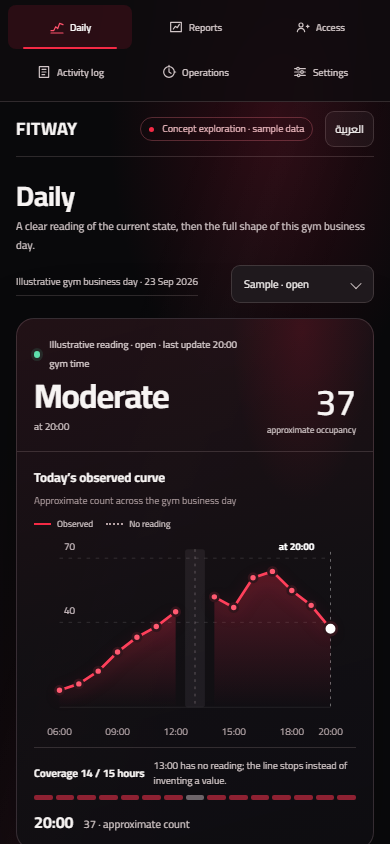
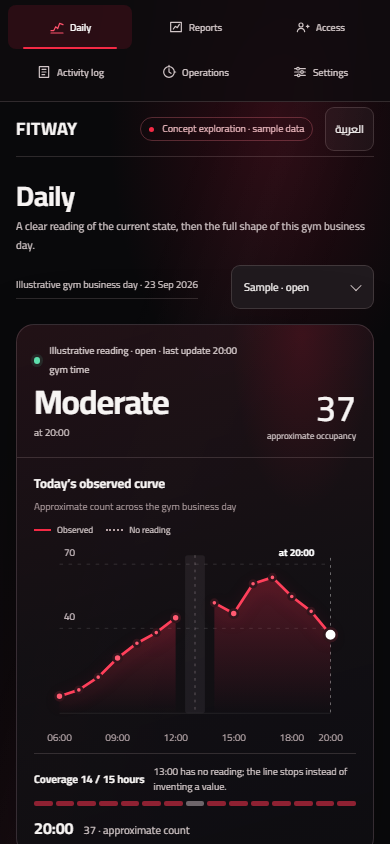
Repair Owner Observatory mobile touch targets

diff --git a/design-research/owner-composition-exploration-r03/concepts/direction-01/app.js b/design-research/owner-composition-exploration-r03/concepts/direction-01/app.js
@@ -423,12 +423,17 @@ function chart() {
 		.join("");
 	const gapX = x(7);
 	const nowX = x(14);
+	// On phones, five spaced anchor readings keep every SVG hit area at least
+	// 44px wide without overlapping adjacent targets. The table retains all hours.
+	const mobileAnchors = new Set([0, 3, 6, 9, 14]);
 	const points = sample
-		.map((v, i) =>
-			v === null
-				? ""
-				: `<circle class="chart-point ${state.selected === i ? "selected" : ""}" data-point="${i}" role="button" tabindex="0" aria-label="${times[i]}: ${v} ${t.approxCount}" aria-pressed="${state.selected === i}" cx="${x(i)}" cy="${y(v)}" r="4.5"><title>${times[i]} · ${v}</title></circle>`,
-		)
+		.map((v, i) => {
+			if (v === null) return "";
+			const active = !mobile || mobileAnchors.has(i);
+			const visual = `<circle class="chart-point-visual ${active ? "selectable" : ""} ${state.selected === i ? "selected" : ""}" data-visual="${i}" cx="${x(i)}" cy="${y(v)}" r="${active ? 4.5 : 3.5}"/>`;
+			if (!active) return `<g aria-hidden="true">${visual}</g>`;
+			return `<g class="chart-point-unit"><circle class="chart-hit" data-point="${i}" role="button" tabindex="0" aria-label="${times[i]}: ${v} ${t.approxCount}" aria-pressed="${state.selected === i}" cx="${x(i)}" cy="${y(v)}" r="${mobile ? 31 : 22}"><title>${times[i]} · ${v}</title></circle>${visual}</g>`;
+		})
 		.join("");
 	const labels = [0, 3, 6, 9, 12, 14]
 		.map(
@@ -534,8 +539,13 @@ function bind() {
 		const select = () => {
 			state.selected = Number(point.dataset.point);
 			document.querySelectorAll("[data-point]").forEach((p) => {
-				p.classList.toggle("selected", p === point);
 				p.setAttribute("aria-pressed", String(p === point));
+			});
+			document.querySelectorAll("[data-visual]").forEach((p) => {
+				p.classList.toggle(
+					"selected",
+					p.dataset.visual === point.dataset.point,
+				);
 			});
 			const selected = document.querySelector(".selected-reading");
 			const t = c();

diff --git a/design-research/owner-composition-exploration-r03/concepts/direction-01/style.css b/design-research/owner-composition-exploration-r03/concepts/direction-01/style.css
@@ -14,3 +14,6 @@
 @media(max-width:600px){.filters{grid-template-columns:repeat(5,minmax(0,1fr))}.filter{font-size:8px}.record{grid-template-areas:'action time chev' 'actor actor chev' 'target target chev';min-height:91px}.record-target{display:block;grid-area:target;font-size:9px;color:var(--soft)}.chart-svg{height:215px}}
 @media(max-width:600px){.rail-link{min-height:44px}.rail-link span,.filter,.record-target,.concept-note{font-size:10px}.filter{min-height:44px}.record-target{color:var(--muted)}}
 .truth-banner button{display:block;margin-top:12px;min-height:44px;padding:8px 16px;border:1px solid rgba(255,255,255,.4);background:rgba(255,255,255,.06);border-radius:9px;color:var(--ink);font-weight:600}.truth-banner button:hover{background:rgba(255,255,255,.12)}
+.chart-hit{fill:transparent;stroke:transparent;stroke-width:1.5;pointer-events:all;cursor:pointer}.chart-hit:focus-visible{fill:transparent;stroke:#fff;stroke-width:1.5;outline:none}.chart-point-visual{fill:#ff5a71;stroke:#32151c;stroke-width:3;pointer-events:none;transition:r .18s ease,fill .18s ease}.chart-point-visual.selected,.chart-point-unit:hover .chart-point-visual,.chart-point-unit:focus-within .chart-point-visual{r:7;fill:#fff}
+@media(max-width:600px){.language,.state-select{min-height:44px}.language{min-width:44px}}
+@media(prefers-reduced-motion:reduce){.chart-point-visual{transition:none}}

diff --git a/design-research/owner-composition-exploration-r03/concepts/direction-01/index.html b/design-research/owner-composition-exploration-r03/concepts/direction-01/index.html
@@ -9,7 +9,7 @@
     <script type="module" src="./app.js"></script>
   </head>
   <body>
-    <a class="skip" href="#main">Skip to content</a>
+    <a class="skip" href="#main">تجاوز إلى المحتوى</a>
     <div id="app"></div>
   </body>
 </html>

diff --git a/design-research/owner-composition-exploration-r03/concepts/direction-01/README.md b/design-research/owner-composition-exploration-r03/concepts/direction-01/README.md
@@ -16,7 +16,7 @@ A panoramic temporal observatory makes the current gym state the first read and 
 
 ## Interaction and motion
 
-Open `index.html` through the local preview server. Navigation changes all six destinations and keeps the active section marked. Daily's chart points support click, keyboard Enter/Space, and tap; the selected hour updates a text readout. The hourly table is an equivalent text representation. The data-state control previews fresh, delayed, closed, unavailable, error, and loading truth; error has a retry-preview action. Activity Log filters and record disclosure give immediate visible feedback. A short section reveal and restrained control transitions aid orientation. Under `prefers-reduced-motion: reduce`, the view reveal and transitions are removed while all information stays present.
+Open `index.html` through the local preview server. Navigation changes all six destinations and keeps the active section marked. Daily's chart anchor points support click, keyboard Enter/Space, and tap; the selected hour updates a text readout. Desktop exposes all 14 observed points as 44px-or-larger targets. Mobile exposes five spaced anchor points as 44px-or-larger nonoverlapping targets so the panoramic chart remains legible; the hourly table gives every observed value and the missing interval as text. The data-state control previews fresh, delayed, closed, unavailable, error, and loading truth; error has a retry-preview action. Activity Log filters and record disclosure give immediate visible feedback. A short section reveal and restrained control transitions aid orientation. Under `prefers-reduced-motion: reduce`, the view reveal and transitions are removed while all information stays present.
 
 The preview includes an illustrative access/operations/settings/reports destination note. A full version would use this grammar as follows:
 
@@ -44,7 +44,9 @@ The preview is on `127.0.0.1:3111`. The capture script uses the repository's ins
 | --- | --- | --- |
 | Daily desktop | `evidence/daily-en-1440x900.png` | `evidence/daily-ar-1440x900.png` |
 | Daily mobile | `evidence/daily-en-390x844.png` | `evidence/daily-ar-390x844.png` |
+| Daily narrow reflow | `evidence/daily-en-320x700.png` | `evidence/daily-ar-320x700.png` |
 | Activity Log desktop | `evidence/activity-log-en-1440x900.png` | `evidence/activity-log-ar-1440x900.png` |
 | Activity Log mobile | `evidence/activity-log-en-390x844.png` | `evidence/activity-log-ar-390x844.png` |
+| Activity Log narrow reflow | `evidence/activity-log-en-320x700.png` | `evidence/activity-log-ar-320x700.png` |
 
-The final eight files were opened and inspected at native dimensions. The script checked EN/LTR and AR/RTL, absence of document overflow at 1440px, 390px, and 320px, chart selection, state truth and retry feedback, navigation, filter/disclosure, locale switching, and reduced-motion style. `pnpm check:design-context` passed with permitted child-process execution. Impeccable `detect --json` returned `[]`. These checks and frames support concept comparison only; they do not approve an Owner direction or production promotion.
+The final twelve files were opened and inspected at native dimensions. The script checked EN/LTR and AR/RTL, localized skip-link text, absence of document overflow at 1440px, 390px, and 320px, chart hit-area dimensions and nonoverlap, keyboard/pointer chart selection, 44px mobile language and state controls, state truth and retry feedback, navigation, filter/disclosure, locale switching, and reduced-motion style. At 320px the smallest chart target measured 46.2px in both languages; at 390px it measured 56.0px; at 1440px it measured 45.1px. `pnpm check:design-context` passed with permitted child-process execution. Impeccable `detect --json` returned `[]` after this repair. These checks and frames support concept comparison only; they do not approve an Owner direction or production promotion.
